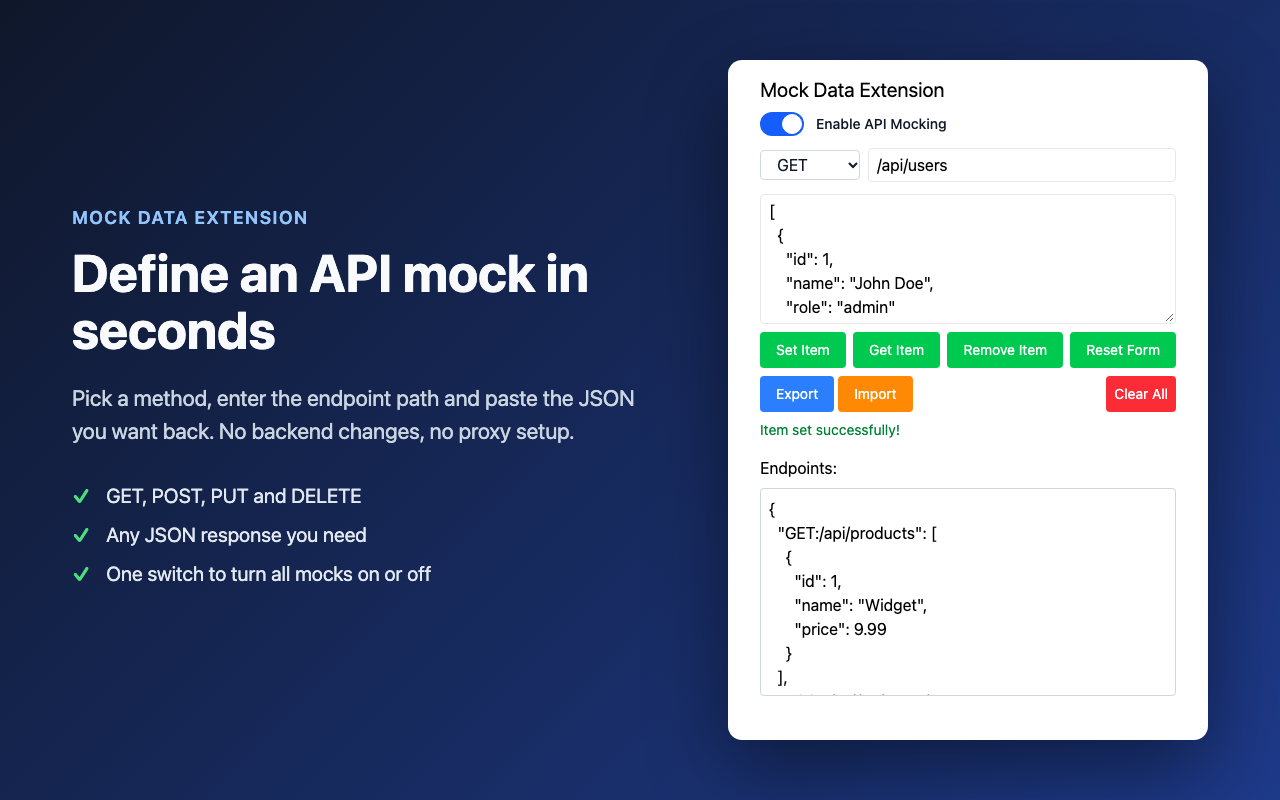
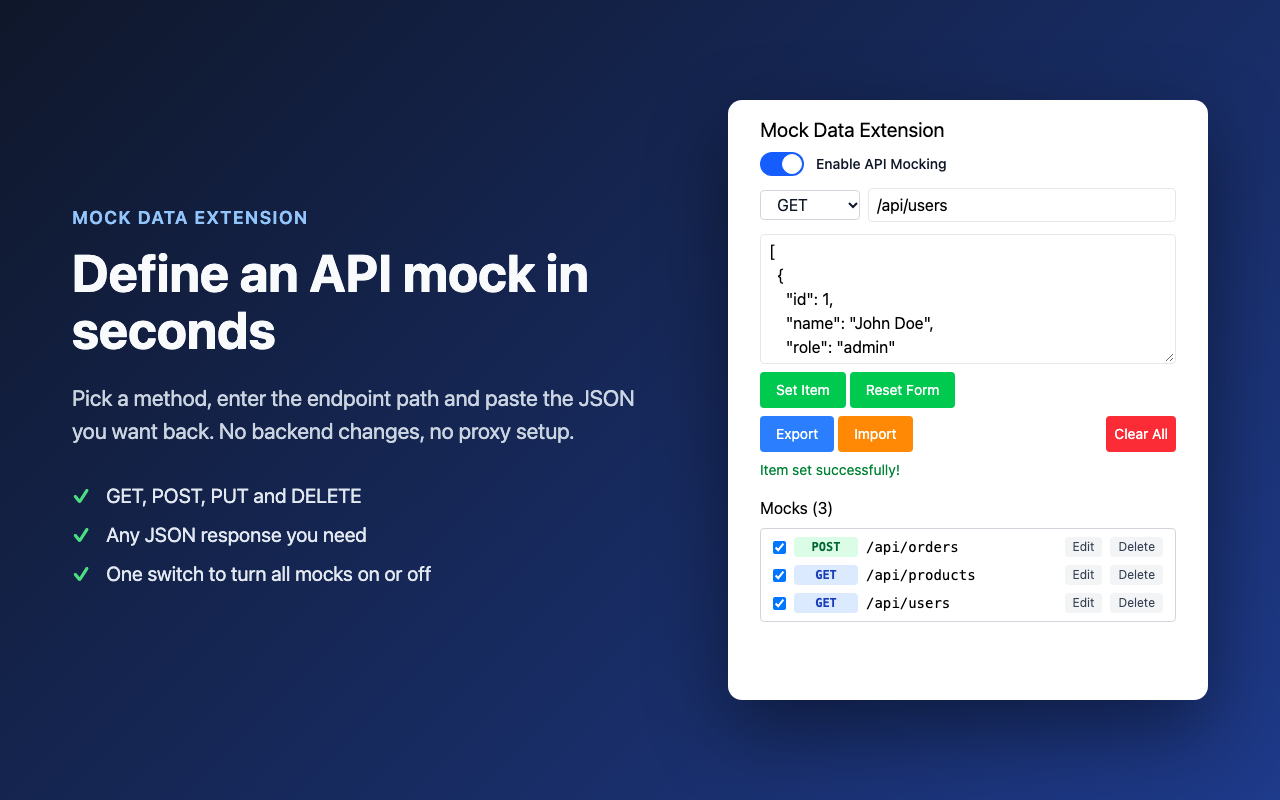
Replace the endpoints JSON dump with a mock list
- popup lists mocks with method badge, path, per-mock on/off, Edit and Delete
- Edit loads a mock into the form; Save Changes updates it and moves it if
  the method or path changed; Cancel leaves it as is
- disabled mocks are kept in the disabledMocks service key and skipped by
  the background rules
- remove Get Item / Remove Item buttons (covered by the list)
- update README, store listing and regenerate store screenshots

diff --git a/src/App.tsx b/src/App.tsx
@@ -3,16 +3,20 @@ import clsx from "clsx";
 import {useAtom} from 'jotai'
 import {
     clearAll,
+    getDisabledMocks,
     getEndpoints,
-    getItem,
+    getStorageKey,
     handleExport,
     handleFileUpload,
+    parseStorageKey,
     removeItem,
     setItem,
+    setMockEnabled,
 } from "./helpers";
 import type {HttpMethod} from "./store";
-import {endpointAtom, methodAtom, responseAtom} from "./store";
+import {editingKeyAtom, endpointAtom, methodAtom, responseAtom} from "./store";
 import {HTTP_METHODS} from "./constants";
+import {MockList} from "./components/MockList";
 
 type Message = { type: 'success' | 'error', text: string };
 
@@ -21,7 +25,9 @@ function App() {
     const [endpoint, setEndpoint] = useAtom(endpointAtom);
     const [response, setResponse] = useAtom(responseAtom);
     const [enabled, setEnabled] = useState(false);
+    const [editingKey, setEditingKey] = useAtom(editingKeyAtom);
     const [endpoints, setEndpoints] = useState<Record<string, unknown>>({});
+    const [disabled, setDisabled] = useState<string[]>([]);
     const [message, setMessage] = useState<Message | null>(null);
 
     const inputRef = useRef<HTMLInputElement | null>(null)
@@ -33,6 +39,7 @@ function App() {
             const {isEnabled} = await chrome.storage.local.get('isEnabled');
             setEnabled(isEnabled === true);
             setEndpoints(await getEndpoints());
+            setDisabled(await getDisabledMocks());
         };
         sync().catch(() => setMessage({type: 'error', text: 'Error fetching storage contents'}));
         chrome.storage.onChanged.addListener(sync);
@@ -67,21 +74,37 @@ function App() {
     const handleReset = () => {
         handleEndpointChange('')
         handleResponseChange('')
+        setEditingKey(null)
         setMessage(null)
     }
 
-    const handleGetItem = () => run(async () => {
-        setResponse(await getItem(method, endpoint));
+    const handleSetItem = () => run(async () => {
+        const text = await setItem(method, endpoint, response);
+        const newKey = getStorageKey(method, endpoint);
+        // Saving an edited mock under a new method or path moves it instead of copying
+        if (editingKey && editingKey !== newKey) {
+            await removeItem(editingKey);
+        }
+        setEditingKey(null);
+        return text;
     });
 
-    const handleSetItem = () => run(() => setItem(method, endpoint, response));
+    const handleEdit = (key: string) => {
+        const parsed = parseStorageKey(key);
+        setMethod(parsed?.method ?? 'GET');
+        setEndpoint(parsed?.endpoint ?? key);
+        setResponse(JSON.stringify(endpoints[key], null, 2));
+        setEditingKey(key);
+        setMessage(null);
+    }
 
-    const handleRemoveItem = () => run(async () => {
-        const text = await removeItem(method, endpoint);
-        handleEndpointChange('')
-        handleResponseChange('')
+    const handleDelete = (key: string) => run(async () => {
+        const text = await removeItem(key);
+        if (key === editingKey) setEditingKey(null);
         return text;
     })
+
+    const handleToggleMock = (key: string, isOn: boolean) => run(() => setMockEnabled(key, isOn));
 
     const handleExportClick = () => run(async () => {
         handleExport(await getEndpoints());
@@ -100,10 +123,8 @@ function App() {
     }
 
     const buttons = [
-        {label: 'Set Item', onClick: handleSetItem},
-        {label: 'Get Item', onClick: handleGetItem},
-        {label: 'Remove Item', onClick: handleRemoveItem},
-        {label: 'Reset Form', onClick: handleReset},
+        {label: editingKey ? 'Save Changes' : 'Set Item', onClick: handleSetItem},
+        {label: editingKey ? 'Cancel' : 'Reset Form', onClick: handleReset},
     ]
 
 
@@ -155,7 +176,12 @@ function App() {
                     />
                 </li>
             </ul>
-            <ul className='flex gap-1 relative mt-2 justify-between'>
+            {editingKey && (
+                <p className='mt-2 text-sm text-gray-600'>
+                    Editing <code className='font-mono'>{editingKey.replace(':', ' ')}</code>
+                </p>
+            )}
+            <ul className='flex gap-1 relative mt-2'>
                 {buttons.map((button) => (
                     <li key={button.label}>
                         <button
@@ -200,10 +226,15 @@ function App() {
                 </p>
             )}
 
-            <div className='mt-4'>
-                <h2>Endpoints:</h2>
-                <div id="endpoints">{JSON.stringify(endpoints, null, 2)}</div>
-            </div>
+            <MockList
+                mocks={endpoints}
+                disabled={disabled}
+                mockingEnabled={enabled}
+                editingKey={editingKey}
+                onToggle={handleToggleMock}
+                onEdit={handleEdit}
+                onDelete={handleDelete}
+            />
 
         </>
     )

diff --git a/src/components/MockList.tsx b/src/components/MockList.tsx
@@ -1,0 +1,62 @@
+import clsx from "clsx";
+import type {HttpMethod} from "../store";
+import {parseStorageKey} from "../helpers";
+
+const METHOD_COLORS: Record<HttpMethod, string> = {
+    GET: 'bg-blue-100 text-blue-800',
+    POST: 'bg-green-100 text-green-800',
+    PUT: 'bg-amber-100 text-amber-800',
+    DELETE: 'bg-red-100 text-red-800',
+};
+
+type Props = {
+    mocks: Record<string, unknown>;
+    disabled: string[];
+    mockingEnabled: boolean;
+    editingKey: string | null;
+    onToggle: (key: string, enabled: boolean) => void;
+    onEdit: (key: string) => void;
+    onDelete: (key: string) => void;
+};
+
+export function MockList({mocks, disabled, mockingEnabled, editingKey, onToggle, onEdit, onDelete}: Props) {
+    const rows = Object.keys(mocks)
+        .map(key => ({key, ...(parseStorageKey(key) ?? {method: 'GET' as HttpMethod, endpoint: key})}))
+        .sort((a, b) => a.endpoint.localeCompare(b.endpoint) || a.method.localeCompare(b.method));
+
+    return (
+        <div className='mt-4'>
+            <h2>Mocks ({rows.length})</h2>
+            {!mockingEnabled && rows.length > 0 && (
+                <p className='text-sm text-gray-500 mb-2'>API mocking is off — no mocks are applied.</p>
+            )}
+            {rows.length === 0 ? (
+                <p className='text-sm text-gray-500'>No mocks yet. Add one above or import a file.</p>
+            ) : (
+                <ul id="endpoints" className={clsx(!mockingEnabled && 'opacity-60')}>
+                    {rows.map(({key, method, endpoint}) => {
+                        const isOn = !disabled.includes(key);
+                        return (
+                            <li key={key}
+                                className={clsx('flex items-center gap-2 px-2 py-1 rounded-sm',
+                                    key === editingKey && 'bg-yellow-50', !isOn && 'text-gray-400')}>
+                                <input type="checkbox" checked={isOn} aria-label={`Enable ${method} ${endpoint}`}
+                                       onChange={(e) => onToggle(key, e.target.checked)}/>
+                                <span className={clsx('w-16 shrink-0 text-center text-xs font-mono font-semibold rounded-sm py-0.5',
+                                    isOn ? METHOD_COLORS[method] : 'bg-gray-100 text-gray-400')}>
+                                    {method}
+                                </span>
+                                <span className='flex-1 truncate font-mono text-sm'
+                                      title={JSON.stringify(mocks[key]).slice(0, 300)}>
+                                    {endpoint}
+                                </span>
+                                <button onClick={() => onEdit(key)} className='mock-action'>Edit</button>
+                                <button onClick={() => onDelete(key)} className='mock-action hover:text-red-700'>Delete</button>
+                            </li>
+                        );
+                    })}
+                </ul>
+            )}
+        </div>
+    );
+}

diff --git a/store-assets/src/chrome-stub.js b/store-assets/src/chrome-stub.js
@@ -25,14 +25,17 @@
                 isEnabled: true,
                 'GET:/api/users': users,
                 'GET:/api/users/*': {id: 42, name: 'Any user', role: 'viewer'},
-                'POST:/api/orders': {id: 1042, status: 'created'}
+                'POST:/api/orders': {id: 1042, status: 'created'},
+                disabledMocks: ['POST:/api/orders']
             },
+            editingKey: 'GET:/api/users/*',
             form: {method: 'GET', endpoint: '/api/users/*', response: '{\n  "id": 42,\n  "name": "Any user",\n  "role": "viewer"\n}'}
         }
     };
     const scene = scenes[new URLSearchParams(location.search).get('scene')] || scenes[1];
     const data = structuredClone(scene.data);
 
+    localStorage.setItem('editingKey', JSON.stringify(scene.editingKey ?? null));
     for (const [key, value] of Object.entries(scene.form)) {
         localStorage.setItem(key, JSON.stringify(value));
     }

diff --git a/src/helpers/removeItem.ts b/src/helpers/removeItem.ts
@@ -1,10 +1,11 @@
-import type {HttpMethod} from "../store";
-import {getStorageKey} from "./storageKey";
+import {DISABLED_KEY} from "./storageKey";
+import {getDisabledMocks} from "./toggleMock";
 
-export const removeItem = async (method: HttpMethod, endpoint: string) => {
-    if (!endpoint) {
-        throw new Error('Please enter an endpoint to remove.');
+export const removeItem = async (key: string) => {
+    const disabled = await getDisabledMocks();
+    await chrome.storage.local.remove(key);
+    if (disabled.includes(key)) {
+        await chrome.storage.local.set({[DISABLED_KEY]: disabled.filter(k => k !== key)});
     }
-    await chrome.storage.local.remove(getStorageKey(method, endpoint));
-    return 'Item removed successfully!';
+    return 'Mock removed.';
 }

diff --git a/store-assets/src/style.css b/store-assets/src/style.css
@@ -14,7 +14,7 @@ ul.points { list-style: none; padding: 0; margin-top: 28px; font-size: 20px; col
 ul.points li { padding: 8px 0 8px 34px; position: relative; }
 ul.points li::before { content: "✓"; position: absolute; left: 0; color: #4ade80; font-weight: 700; }
 .popup {
-    width: 480px; height: 680px; border: 0; border-radius: 14px; background: #fff;
+    width: 480px; height: 600px; border: 0; border-radius: 14px; background: #fff;
     box-shadow: 0 30px 80px rgba(0,0,0,.45);
 }
 code { font-family: ui-monospace, SFMono-Regular, Menlo, monospace; }

diff --git a/public/background.js b/public/background.js
@@ -1,4 +1,4 @@
-const KEYS = ['isEnabled'];
+const KEYS = ['isEnabled', 'disabledMocks'];
 
 const parseStorageKey = (key) => {
     const methods = ['GET', 'POST', 'PUT', 'DELETE'];
@@ -33,7 +33,7 @@ const buildRegexFilter = (path) => {
 };
 
 const buildRules = (data) => Object.entries(data)
-    .filter(([key]) => !KEYS.includes(key))
+    .filter(([key]) => !KEYS.includes(key) && !(data.disabledMocks ?? []).includes(key))
     .map(([key, mockResponse], index) => {
         const { method, path } = parseStorageKey(key);
         const condition = {

diff --git a/store-assets/src/screenshot-2.html b/store-assets/src/screenshot-2.html
@@ -15,7 +15,7 @@ th, td { text-align: left; padding: 10px 8px; border-bottom: 1px solid #e2e8f0; 
 th { color: #64748b; font-weight: 600; font-size: 14px; text-transform: uppercase; }
 .net { margin-top: 18px; font-size: 15px; background: #f1f5f9; border-radius: 8px; padding: 10px 14px; display: flex; justify-content: space-between; }
 .net b { color: #16a34a; }
-.popup { width: 440px; height: 620px; }
+.popup { width: 440px; height: 520px; }
 </style></head><body>
 <div class="left">
     <h1>Your JSON, returned on any site</h1>

diff --git a/src/helpers/toggleMock.ts b/src/helpers/toggleMock.ts
@@ -1,0 +1,12 @@
+import {DISABLED_KEY} from "./storageKey";
+
+export const getDisabledMocks = async (): Promise<string[]> => {
+    const {[DISABLED_KEY]: disabled} = await chrome.storage.local.get(DISABLED_KEY);
+    return Array.isArray(disabled) ? disabled : [];
+};
+
+export const setMockEnabled = async (key: string, enabled: boolean) => {
+    const disabled = (await getDisabledMocks()).filter(k => k !== key);
+    if (!enabled) disabled.push(key);
+    await chrome.storage.local.set({[DISABLED_KEY]: disabled});
+};

diff --git a/src/store/index.ts b/src/store/index.ts
@@ -5,3 +5,6 @@ export type HttpMethod = 'GET' | 'POST' | 'PUT' | 'DELETE';
 export const methodAtom = atomWithStorage<HttpMethod>('method', 'GET');
 export const endpointAtom = atomWithStorage<string>('endpoint', '');
 export const responseAtom = atomWithStorage<string>('response', '');
+// Storage key of the mock loaded into the form with "Edit", so saving under a new
+// method or path moves the mock instead of creating a copy
+export const editingKeyAtom = atomWithStorage<string | null>('editingKey', null);

diff --git a/src/index.css b/src/index.css
@@ -50,7 +50,11 @@
 
 @layer components {
     #endpoints {
-        @apply whitespace-pre-wrap max-h-52 overflow-y-auto border border-gray-300 p-2 rounded-sm
+        @apply max-h-52 overflow-y-auto border border-gray-300 p-1 rounded-sm
+    }
+
+    .mock-action {
+        @apply px-2 py-0.5 text-xs bg-gray-100 text-gray-700 hover:bg-gray-200
     }
 
     .form-input-group {

diff --git a/src/helpers/storageKey.ts b/src/helpers/storageKey.ts
@@ -1,7 +1,8 @@
 import type {HttpMethod} from "../store";
 import {HTTP_METHODS} from "../constants";
 
-export const SERVICE_KEYS = ['isEnabled'];
+export const DISABLED_KEY = 'disabledMocks';
+export const SERVICE_KEYS = ['isEnabled', DISABLED_KEY];
 
 export const getStorageKey = (method: HttpMethod, endpoint: string) => `${method}:${endpoint}`;
 

diff --git a/src/helpers/index.ts b/src/helpers/index.ts
@@ -1,6 +1,6 @@
 export * from './setItem'
-export * from './getItem'
 export * from './removeItem'
+export * from './toggleMock'
 export * from './clearAll'
 export * from './storageKey'
 export * from './handleExport'
